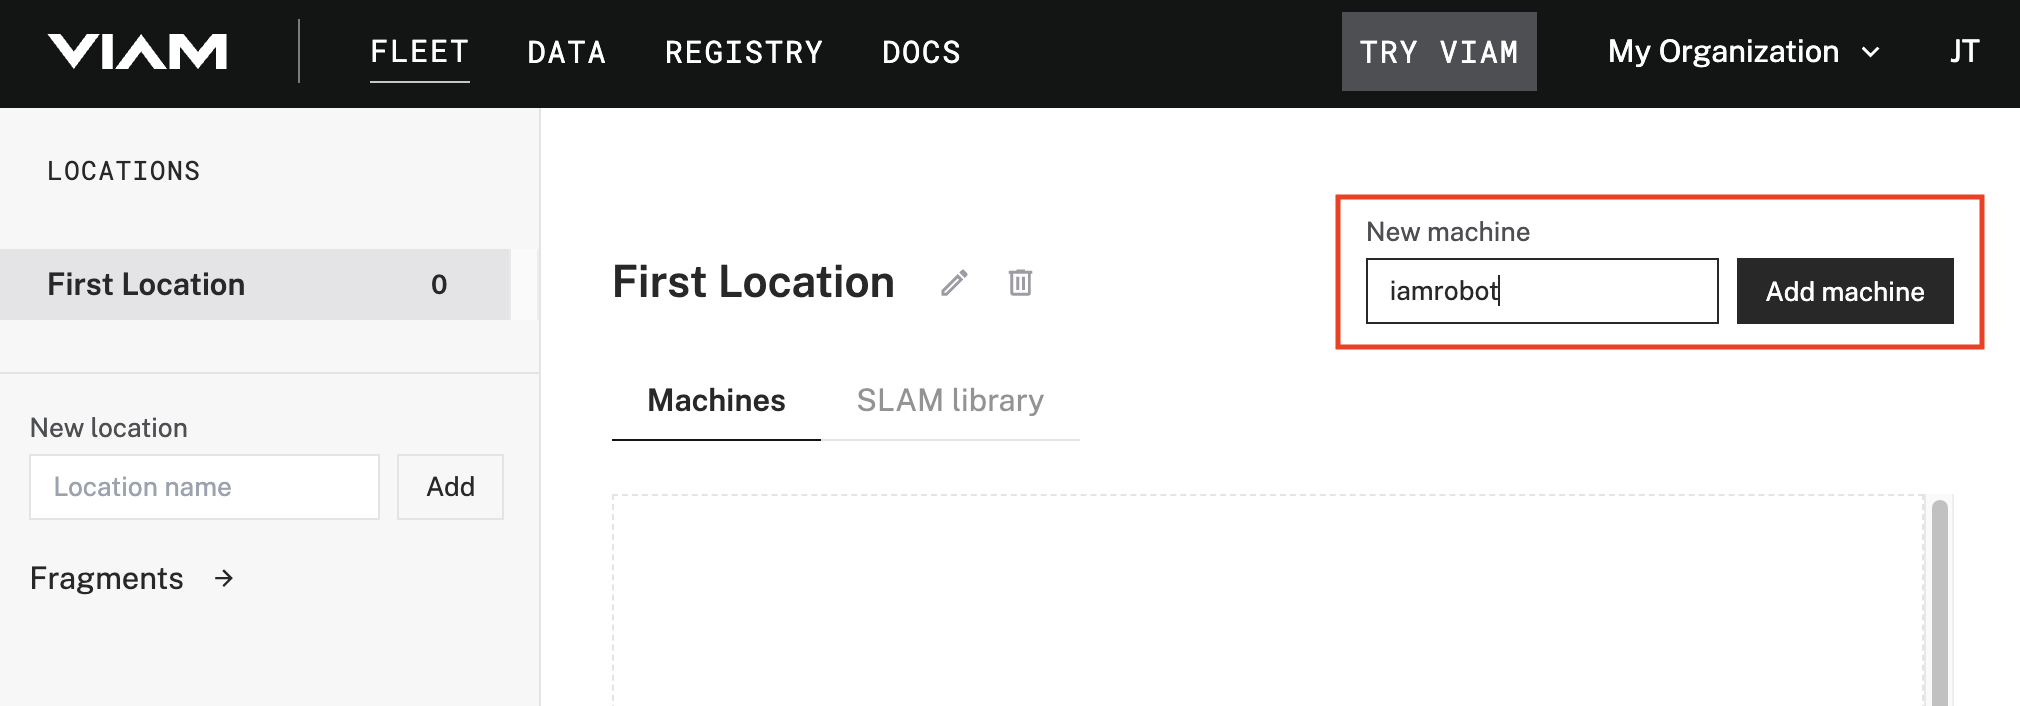
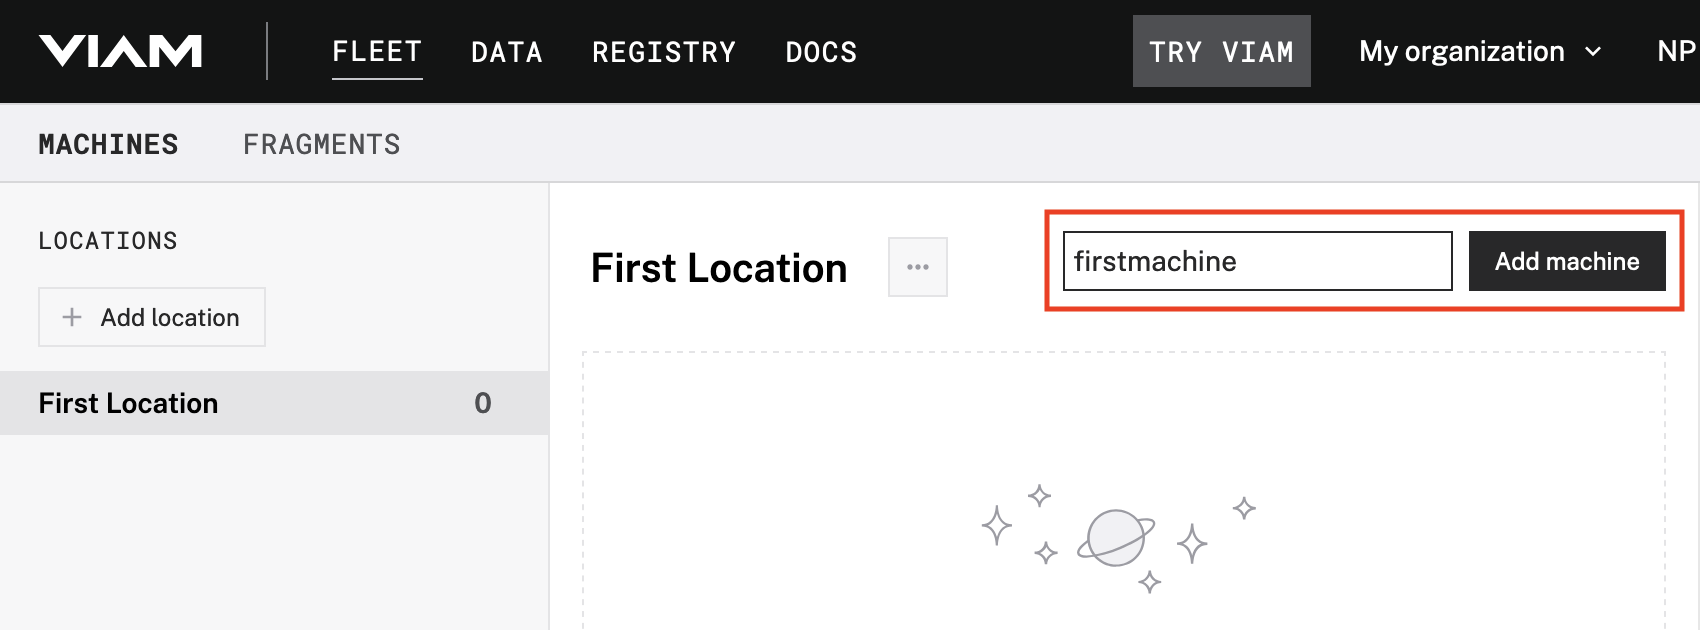
DOCS-2936: Change new location page (#3456)

diff --git a/docs/services/slam/cloudslam/_index.md b/docs/services/slam/cloudslam/_index.md
@@ -33,7 +33,8 @@ Currently CloudSLAM only supports the [cartographer module](../cartographer/) as
 
 ## The SLAM library page
 
-On one of your location pages in the [Viam app](https://app.viam.com/robots), change the tab from **Machines** to **SLAM Library**. From here, you can find:
+You can see details about the available maps from your machine's **Location** page by clicking **View SLAM library**.
+From here, you can find:
 
 1.  A list of all maps generated in that location. The list shows the name and version of the map, which machine was used for mapping, and when the map was created. You can also view previous versions of a map, if a map has been updated multiple times.
     ![offline mapping available maps](/services/slam/offline-mapping-available-maps.png)
@@ -349,7 +350,7 @@ Example of previously captured IMU data:
 
 ### Create or update a map
 
-Navigate to the **SLAM library** tab on your location page, and click **Make new map** on the top right and specify a map name or click **Update map** next to an existing map.
+From your machine's **Location** page, click **View SLAM library**, and click **Make new map** on the top right and specify a map name or click **Update map** next to an existing map.
 
 1. Enter the **Machine name**, **Camera name**, and optionally the **Movement Sensor name** of the components whose previously captured data you want to use to create or update a map.
    If your machine has been deleted, you can alternatively specify the [**machine ID**](/appendix/apis/fleet/#find-machine-id).
@@ -361,8 +362,9 @@ Navigate to the **SLAM library** tab on your location page, and click **Make new
 
 ### End a session with previously captured data
 
-Unlike in `Online` mode, you cannot see the map being created while the slam session is in progress, but similar to when creating or updating a map in `Online` mode, you can see that your cloud slam session is in progress from your **Location** page's **SLAM library** tab.
-When all the data has been processed (or 45 minutes have passed, whichever occurs first), the map will be saved to your **Location** page's **SLAM library** tab.
+Unlike in `Online` mode, you cannot see the map being created while the slam session is in progress, but similar to when creating or updating a map in `Online` mode, you can see that your cloud slam session is in progress from your **Location** page by clicking **View SLAM library**.
+When all the data has been processed (or 45 minutes have passed, whichever occurs first), the map will be saved to yourlocation's **SLAM library**.
+You can see details about the it from your machine's **Location** page by clicking **View SLAM library**.
 
 ## Upload a locally built map
 

diff --git a/docs/services/slam/cartographer/_index.md b/docs/services/slam/cartographer/_index.md
@@ -205,7 +205,7 @@ To update an existing map with new pointcloud data from a new SLAM session, foll
    1. Select the Mapping mode dropdown and choose the **Update existing map** option.
    2. Configure **Select map** and **Map version** with the name and version of the map you would like to update.
       For the other attributes, review the information in [Create a new map](#create-a-new-map).
-      You can see more details about the available maps from your machine's **Location** page under the **SLAM library** tab.
+      You can see more details about the available maps from your machine's **Location** page by clicking **View SLAM library**.
 
    {{% /tab %}}
    {{% tab name="JSON Example" %}}
@@ -308,7 +308,7 @@ In this mode, the `cartographer` module on your machine executes the Cartographe
 1.  Select the Mapping mode dropdown and choose the **Update existing map** option.
 1.  Configure **Select map** and **Map version** with the name and version of the map you would like to localize on.
     For the other attributes, review the information in [Create a new map](#create-a-new-map).
-    You can see more details about the available maps from your machine's **Location** page under the **SLAM library** tab.
+    You can see more details about the available maps from your machine's **Location** page by clicking **View SLAM library**.
 
     {{% /tab %}}
     {{% tab name="JSON Example" %}}
@@ -417,7 +417,8 @@ If you move your machine, it will appear to be moving in a trajectory from the m
 
 ### Using locally built maps
 
-If you do not have any maps on your **Location** page's **SLAM library** tab, and you do not wish to use [cloudslam](../cloudslam/), but you still want to use localizing and updating modes with cartographer, you can take the following steps.
+You can see details about the available maps from your machine's **Location** page by clicking **View SLAM library**.
+If you do not have any maps, and you do not wish to use [cloudslam](../cloudslam/), but you still want to use localizing and updating modes with cartographer, you can take the following steps.
 
 1. Save a `.pbstream` file by using the [GetInternalState or InternalStateFull APIs](../#api) by using one of the SDKs. Note, `InternalStateFull` is currently only implemented in Go.
 2. Ensure the `.pbstream` file is located somewhere on the machine, and note the directory path to that file.

diff --git a/docs/tutorials/control/air-quality-fleet.md b/docs/tutorials/control/air-quality-fleet.md
@@ -104,16 +104,16 @@ You can choose to manage your fleet of machines differently based on what makes 
    A new location called `First Location` is automatically generated for you.
    Rename it so you can use it for Antonia's machines:
 
-   Click the pencil icon next to the location name, change it to `Antonia's Home`, then click **Save**.
+   Click on the location and use the **...** menu next to edit the location name to `Antonia's Home`, then click **Save**.
 
 1. Now, create a separate location for RobotsRUs:
 
-   On the left side of the **FLEET** page, find the **New location** interface.
+   On the left side of the **FLEET** page, click the **Add location** button.
    Type in `RobotsRUs` and click **Add**.
 
 1. Add sub-locations to the RobotsRUs location to group the machines at each of their offices:
 
-   Add a new location called `Oregon Office` using the same **New location** interface.
+   Add a new location called `Oregon Office` using the same **Add location** button.
    Then, find the **New parent location** dropdown on the Oregon Office page.
    Select **RobotsRUs** and click **Change**.
 
@@ -275,10 +275,10 @@ You can manually edit this file instead of using the builder UI if you are famil
 In any case, now that the JSON is generated, you are ready to create a {{< glossary_tooltip term_id="fragment" text="fragment" >}}:
 
 1. Select and copy the entire contents of the JSON config.
-2. Navigate to the **FLEET** page and click [**Fragments**](https://app.viam.com/fragments) at the bottom of the left nav.
-3. Type in a name for your fragment, such as `air-sensing-machine` and click **Add fragment**.
+2. Navigate to the **FLEET** page and go to the [**FRAGMENTS** tab](https://app.viam.com/fragments).
+3. Click **Create fragment** and change your fragment's name by clicking on it. We used the name `air-sensing-machine`.
 4. Replace the empty curly braces `{}` with the config you copied from your machine.
-5. Click **Save fragment**.
+5. Click **Save**.
 6. Now, you can actually delete the entire config from your machine!
    In the next section, you will replace it with the fragment you just created so that it gets updated alongside all your other machines when you update the fragment in the future.
 

diff --git a/docs/cloud/locations.md b/docs/cloud/locations.md
@@ -64,16 +64,8 @@ You can share a location beyond its organization by sharing a location with an a
 
 Share your location with another organization you belong to by selecting the organization from the **Add Organization** dropdown menu and clicking **Share**.
 
-To share your location with an organization you are not a member of, enter the organization ID (a string like `1ab2c3d1-1234-123a-abcd-abcdef123456`) and click **Share**.
-Members of the other org can find the org ID on their org settings page.
-
-![The Add Organization dropdown in the Viam app displays all organizations the user is a member of.](/fleet/app-usage/add-org-drop-down.png)
-
-The location's page lists the newly added organization, along with the organization identified as the _primary owner_:
-
-![After adding another org, the Viam app lists it under the orgs that share this location list.](/fleet/app-usage/after-add-org.png)
-
-The list of organizations includes the names of organizations to which you belong, and the org IDs of organizations to which you do not belong.
+To share your location with an organization you are not a member of, select the location or enter the organization ID (a string like `1ab2c3d1-1234-123a-abcd-abcdef123456`) and click **Share**.
+Members of the org can find the org ID on their org settings page.
 
 {{% alert title="Note" color="info" %}}
 

diff --git a/docs/how-tos/manage-fleet.md b/docs/how-tos/manage-fleet.md
@@ -75,10 +75,10 @@ If you'd like to look at an example, see [Monitor Air Quality with a Fleet of Se
 1. Click **FLEET** in the upper-left corner of the page.
    A new location called `First Location` is automatically generated for you.
 
-   Click the pencil icon next to the location name and give it a name for what it represents for your use case.
+   Click on the location and use the **...** menu next to edit the location name to what it represents for your use case.
    Then click **Save**.
 
-1. Create additional locations as needed using **New location** interface, on the left of the **FLEET** page.
+1. Create additional locations as needed using **Add location** button, on the left of the **FLEET** page.
 
 {{% /tablestep %}}
 {{% tablestep link="/cloud/locations/" %}}
@@ -88,7 +88,7 @@ If needed, you can add further sub-locations to, for example, differentiate grou
 
 To add a sub-location:
 
-1. Add a new location using the same **New location** interface.
+1. Add a new location using the same **Add location** button.
 
 1. At the bottom of the location’s page, use the **New parent location** dropdown to choose a parent location.
    Click **Change**.

diff --git a/docs/configure/_index.md b/docs/configure/_index.md
@@ -262,7 +262,7 @@ Find more information in our [machine parts documentation](/architecture/parts/)
 You can use fragments to share similar {{< glossary_tooltip term_id="resource" text="resource" >}} configuration files across multiple machines in your fleet.
 For example, if you have multiple machines with the same motor hardware, wired the same way, you can create a fragment to configure that motor and share it easily across all of your machines, without needing to individually configure the motor component for each machine.
 
-To configure a fragment, click the **+** icon next to your {{< glossary_tooltip term_id="part" text="machine part" >}} in the left-hand menu of the **CONFIGURE** tab and select **Insert fragment**.
+To use a fragment, click the **+** icon next to your {{< glossary_tooltip term_id="part" text="machine part" >}} in the left-hand menu of the **CONFIGURE** tab and select **Insert fragment**.
 See [Use Fragments to Configure a Fleet](/fleet/fragments/) for more information on creating and deploying fragments.
 
 ### Frames

diff --git a/docs/services/slam/_index.md b/docs/services/slam/_index.md
@@ -24,7 +24,7 @@ Breaking changes are likely to occur, and occur often.
 SLAM is an important area of ongoing research in robotics, particularly for mobile applications such as drones, boats, and rovers.
 
 The Viam SLAM service supports the integration of SLAM as a service on your machine.
-You can conduct SLAM with data collected live by a [RPlidar](https://github.com/viamrobotics/rplidar) or with LIDAR data you provide in configuration, and easily view the map you build on the **SLAM library** tab of your location's page in the [Viam app](https://app.viam.com):
+You can conduct SLAM with data collected live by a [RPlidar](https://github.com/viamrobotics/rplidar) or with LIDAR data you provide in configuration, and easily view the map you build by clicking on **View SLAM library** on your location's page in the [Viam app](https://app.viam.com):
 
 ![Completed SLAM maps in the SLAM library tab](/services/slam/view-map-page.png)
 

diff --git a/docs/cloud/machines.md b/docs/cloud/machines.md
@@ -19,7 +19,7 @@ A machine always has a main part that receives client requests, and any number o
 
 ## Add a new machine
 
-Add a new machine in the [Viam app](https://app.viam.com) by providing a name in the **New machine** field and clicking **Add machine**.
+Add a new machine in the [Viam app](https://app.viam.com) by clicking **+ Add machine**, providing a name in the **New machine** field and clicking **Add machine** again.
 
 ![The 'First Location' page on the Viam app with a new machine name in the New machine field and the Add Machine button next to the field highlighted.](/fleet/app-usage/create-machine.png)
 

diff --git a/docs/how-tos/one-to-many.md b/docs/how-tos/one-to-many.md
@@ -57,9 +57,9 @@ In your machine's **CONFIGURE** tab, switch to **JSON** and copy the raw JSON.
 {{% tablestep link="/fleet/fragments/" %}}
 **3. Create a fragment**
 
-Go to [app.viam.com/fragments](https://app.viam.com/fragments).
+On the **FLEET** page, go to the [**FRAGMENTS** tab](https://app.viam.com/fragments).
 
-Add a fragment, and paste the copied JSON configuration into it.
+Click **Create fragment**, and paste the copied JSON configuration into it.
 
 Set your privacy settings.
 There are three options for this:

diff --git a/docs/appendix/changelog.md b/docs/appendix/changelog.md
@@ -288,7 +288,7 @@ This enhancement allows you to:
 
 - Generate larger maps without encountering session timeouts
 - Provide IMU input to improve map quality
-- Save maps to the **SLAM library** tab
+- Save maps to the **SLAM library**
 - Create or update maps using previously captured LiDAR and IMU data
 - Deploy maps to machines
 
